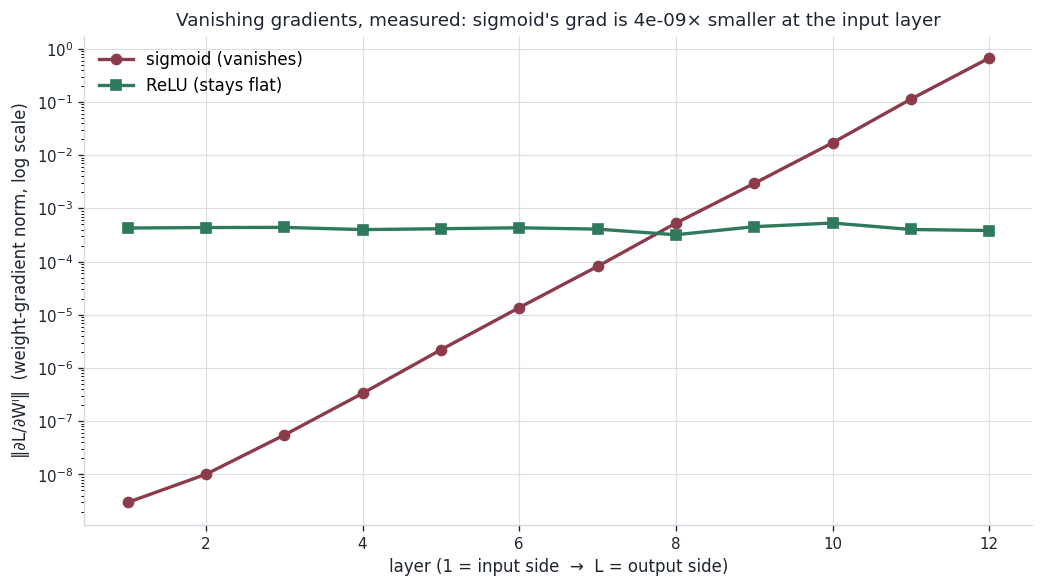
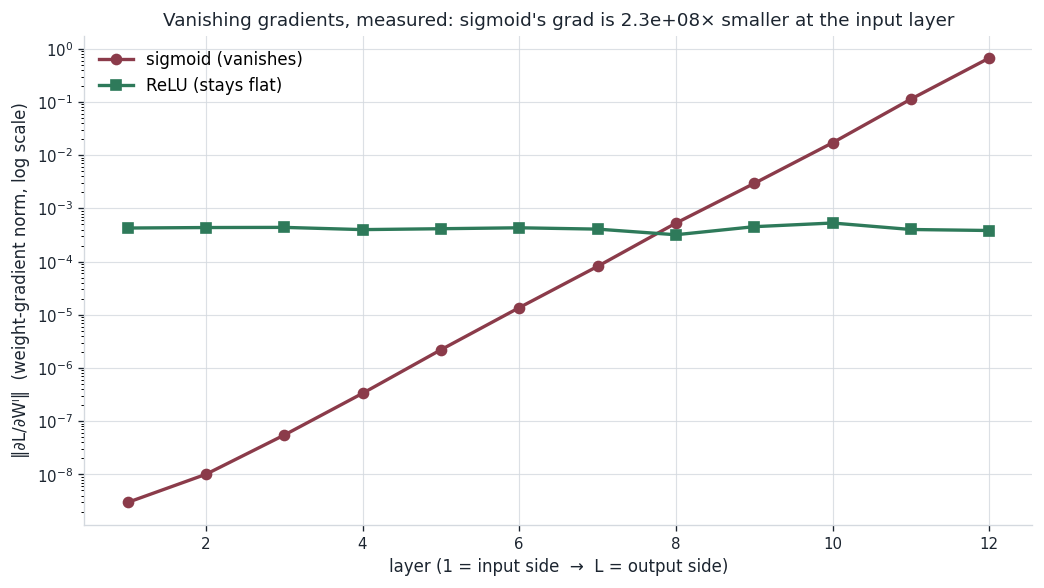
fix(05-dl-backprop): assert gradient-check/torch proofs + correct delta-recurrence caption + ReLU weight-grad reconciliation
Address review borderline items on the backpropagation chapter.

- Assert the two headline from-scratch proofs so a broken backward pass fails
  loudly instead of printing a bad number and exiting 0: main() now raises on
  gradient-check max rel error >= 1e-3 and on torch cross-check not all-close;
  the notebook adds the matching asserts in the gradient-check and torch cells.
- Correct the delta-recurrence caption: the spread is not "four orders" — it is
  ~2 orders for tanh (1.7e-1 to 1.7e-3) and ~3.5 orders for ReLU (to 6e-5).
- Add an explicit reconciliation of why ReLU's error delta shrinks toward the
  input yet its weight gradient stays flat: the weight grad is (a_prev)^T delta,
  and the forward activation grows toward the input at the rate delta shrinks
  (verified: ||a_prev|| 0.012 -> 39.7), so the product is flat; sigmoid's extra
  sigma'<=0.25 factor breaks the balance and the weight grad vanishes.
- Fix the vanishing figure title (printed the ratio in the wrong direction) and
  harmonize small drifts: 2.3e8 (was ~2e8) and median rel err 1.65e-10 across
  figure + prose.
- Add a "your turn" prompt (predict delta1 under sigmoid, check in the notebook).

Notebook regenerated and executed headless (0 errors, asserts pass); ruff clean
on module, generators, and notebook.

Changed region(s): [[0.1533, 0.0, 0.9195, 0.0612]]

diff --git a/05. Deep_Learning/02-Backpropagation-and-Computational-Graphs/code/backpropagation.py b/05. Deep_Learning/02-Backpropagation-and-Computational-Graphs/code/backpropagation.py
@@ -553,7 +553,10 @@ def main() -> None:
     xb, yb = x_tr[:16], np.eye(10)[y_tr[:16]]
     gc = gradient_check(mlp, xb, yb, eps=1e-5)
     print(f"  parameters checked : {gc.n_params}")
-    print(f"  median relative error : {gc.median_rel_error:.2e}   max : {gc.max_rel_error:.2e}  (<< 1e-3 => correct)\n")
+    print(f"  median relative error : {gc.median_rel_error:.2e}   max : {gc.max_rel_error:.2e}  (<< 1e-3 => correct)")
+    if not (gc.max_rel_error < 1e-3):  # hard gate: a broken backward pass must FAIL, not print a bad number and exit 0
+        raise AssertionError(f"gradient check FAILED: max relative error {gc.max_rel_error:.2e} >= 1e-3")
+    print()
 
     print("=== Epsilon U-curve on f(w) = 1/2 (tanh 3w - 0.5)^2 at w=0.7 ===")
     analytic, pts = epsilon_sweep()
@@ -565,7 +568,10 @@ def main() -> None:
 
     print("=== Torch cross-check — from-scratch MLP gradients vs loss.backward() ===")
     tm = torch_cross_check(mlp, xb, y_tr[:16])
-    print(f"  max abs diff = {tm.max_abs_diff:.2e}   allclose(atol=1e-10) = {tm.all_close}\n")
+    print(f"  max abs diff = {tm.max_abs_diff:.2e}   allclose(atol=1e-10) = {tm.all_close}")
+    if not tm.all_close:  # hard gate: from-scratch gradients MUST match the reference autodiff engine
+        raise AssertionError(f"torch cross-check FAILED: max abs diff {tm.max_abs_diff:.2e} exceeds atol=1e-10")
+    print()
 
     print("=== Train the from-scratch net on scikit-learn digits (SGD driven by backprop) ===")
     tr = train_digits()

diff --git a/05. Deep_Learning/tools/make_figures_02.py b/05. Deep_Learning/tools/make_figures_02.py
@@ -248,8 +248,8 @@ def fig_delta_and_vanishing() -> None:
     ax.semilogy(layers, prof_relu.grad_norms, "s-", color=GREEN, lw=2, label="ReLU (stays flat)")
     ax.set_xlabel("layer (1 = input side  →  L = output side)")
     ax.set_ylabel("‖∂L/∂Wˡ‖  (weight-gradient norm, log scale)")
-    r = prof_sig.grad_norms[0] / prof_sig.grad_norms[-1]
-    ax.set_title(f"Vanishing gradients, measured: sigmoid's grad is {r:.0e}× smaller at the input layer", fontsize=11)
+    r = prof_sig.grad_norms[-1] / prof_sig.grad_norms[0]  # output/input: how many times smaller at the input
+    ax.set_title(f"Vanishing gradients, measured: sigmoid's grad is {r:.1e}× smaller at the input layer", fontsize=11)
     ax.legend(frameon=False, fontsize=10)
     fig.tight_layout()
     _save(fig, f"{IMG_PREFIX}vanishing.png")
@@ -268,7 +268,7 @@ def fig_gradcheck() -> None:
     ax.set_xlabel("numerical gradient (centred finite difference)")
     ax.set_ylabel("analytic gradient (backprop)")
     ax.set_title(f"Gradient check: {gc.n_params} params, all on y = x\n"
-                 f"median rel err {gc.median_rel_error:.1e}, max {gc.max_rel_error:.1e}", fontsize=11)
+                 f"median rel err {gc.median_rel_error:.2e}, max {gc.max_rel_error:.1e}", fontsize=11)
     ax.legend(frameon=False, fontsize=10, loc="upper left")
     ax.set_aspect("equal")
     fig.tight_layout()

diff --git a/05. Deep_Learning/tools/build_notebook_02.py b/05. Deep_Learning/tools/build_notebook_02.py
@@ -262,7 +262,10 @@ add_code(
     "gc = gradient_check(check_net, x_tr[:16], np.eye(10)[y_tr[:16]], eps=1e-5)\n"
     "print(f'parameters checked    : {gc.n_params}')\n"
     "print(f'median relative error : {gc.median_rel_error:.2e}')\n"
-    "print(f'max    relative error : {gc.max_rel_error:.2e}   (<< 1e-3 => backward pass is correct)')"
+    "print(f'max    relative error : {gc.max_rel_error:.2e}   (<< 1e-3 => backward pass is correct)')\n"
+    "# hard gate: a broken backward pass must FAIL here, not just print a bad number\n"
+    "assert gc.max_rel_error < 1e-3, f'gradient check failed: max rel error {gc.max_rel_error:.2e}'\n"
+    "print('OK: gradient check confirms the from-scratch backward pass')"
 )
 
 # ---- Step 9: epsilon U-curve ----
@@ -294,7 +297,10 @@ add_md(
 add_code(
     "tm = torch_cross_check(check_net, x_tr[:16], y_tr[:16])\n"
     "print(f'max |from-scratch - autograd| = {tm.max_abs_diff:.2e}')\n"
-    "print(f'allclose(atol=1e-10)          = {tm.all_close}')"
+    "print(f'allclose(atol=1e-10)          = {tm.all_close}')\n"
+    "# hard gate: the from-scratch gradients must match the reference autodiff engine\n"
+    "assert tm.all_close, f'torch cross-check failed: max abs diff {tm.max_abs_diff:.2e}'\n"
+    "print('OK: from-scratch gradients match PyTorch autograd')"
 )
 
 # ---- Step 11: train on digits ----

diff --git a/05. Deep_Learning/02-Backpropagation-and-Computational-Graphs/02-Backpropagation-and-Computational-Graphs.md b/05. Deep_Learning/02-Backpropagation-and-Computational-Graphs/02-Backpropagation-and-Computational-Graphs.md
@@ -372,6 +372,8 @@ Every one of those numbers is a single application of "upstream × local," and e
 
 > **Tip:** the convention $z = xW + b$ (row vectors) makes "pull back" read as $W\delta$ and the weight grad as $x^\top\delta$; the column convention $z = Wx + b$ makes them $W^\top\delta$ and $\delta x^\top$. They are the same computation — just transposed. In an interview, **state your convention first**, then the shapes police themselves.
 
+> **Your turn:** in this net the only place the hidden activation enters the backward pass is the local factor $\sigma'(z^1)$ in $\delta^1 = (W^2\delta^2)\odot\sigma'(z^1)$. Predict what $\delta^1$ becomes if the hidden layer were **sigmoid** instead of tanh — i.e. replace $1-(a^1)^2$ with $a^1(1-a^1)$ (recompute $a^1=\sigma(z^1)$ first, since $z^1$ is unchanged) — then check your answer by swapping `activation="tanh"` for `"sigmoid"` in the notebook's `MLP` and re-running. Which entries of $\delta^1$ shrink, and why does that hint at vanishing gradients?
+
 ---
 
 ## Forward mode vs reverse mode
@@ -445,9 +447,11 @@ $$\delta^1 \;\approx\; \Big(\prod_{l=2}^{L}(W^l)^\top\Big)\Big(\prod_{l=1}^{L}\t
 
 Products of many numbers are unstable. If the factors are consistently **less than 1** in magnitude (sigmoid's $\sigma'$ peaks at $0.25$, tanh's at $1$ but typically smaller, and weight matrices with small singular values shrink too), the gradient **shrinks geometrically** toward the early layers — they receive almost nothing and barely learn: **vanishing gradients**. If the factors are consistently **greater than 1**, the product **explodes** to NaN: **exploding gradients**. The two plots below show both effects directly — the $\delta$ magnitude pulled back layer by layer, and the resulting weight-gradient norm per layer.
 
-![Magnitude of the per-layer error delta pulled back through a 12-layer net (small-scale weight init), measured for tanh and ReLU. Both shrink by roughly four orders of magnitude from the output layer (right) toward the input layer (left) — the backward product drifting below one — with tanh's error staying larger than ReLU's, because tanh's derivative is near 1 for small pre-activations while ReLU zeros out roughly half the units. This is the delta recurrence in action: each backward step multiplies by W-transpose and by sigma-prime, so the magnitude compounds.](../images/dl02_delta_recurrence.png)
+![Magnitude of the per-layer error delta pulled back through a 12-layer net (small-scale weight init), measured for tanh and ReLU. Both shrink toward the input layer (left) as the backward product drifts below one — tanh by about 2 orders of magnitude (1.7e-1 to 1.7e-3), ReLU by about 3.5 orders (1.7e-1 to 6e-5) — with tanh's error staying larger, because tanh's derivative is near 1 for small pre-activations while ReLU zeros out roughly half the units each layer. This is the delta recurrence in action: each backward step multiplies by W-transpose and by sigma-prime, so the magnitude compounds.](../images/dl02_delta_recurrence.png)
 
-![Weight-gradient norm per layer in a 12-layer net with identical small-scale initialization for both activations: with Sigmoid the gradient vanishes exponentially toward the early (input-side) layers — measured here as roughly 2e8 times smaller at layer 1 than at the output layer — while with ReLU it stays roughly constant across depth.](../images/dl02_vanishing.png)
+![Weight-gradient norm per layer in a 12-layer net with identical small-scale initialization for both activations: with Sigmoid the gradient vanishes exponentially toward the early (input-side) layers — measured here as roughly 2.3e8 (2.3×10⁸) times smaller at layer 1 than at the output layer — while with ReLU it stays roughly constant across depth.](../images/dl02_vanishing.png)
+
+**Reconciling the two plots (a subtle, important point).** The first plot shows ReLU's error $\delta$ *shrinking* toward the input, yet the second shows ReLU's *weight-gradient* staying flat — how can both be true? Because the weight gradient is not $\delta$ itself but the **product** $\partial L/\partial W^l = (a^{l-1})^\top\delta^l$. With this small-scale init the forward activation $a^{l-1}$ *grows* toward the input side at almost exactly the rate $\delta^l$ shrinks, so their product — the weight gradient — stays roughly constant across depth for ReLU. Sigmoid breaks that balance: its extra $\sigma'\le 0.25$ factor at every layer shrinks $\delta$ *faster* than the activation grows, so the product collapses and the weight gradient vanishes. The thing that actually vanishes is the weight gradient (the second plot) — the quantity the optimizer uses — and ReLU keeps it alive precisely by keeping that $\delta \times a$ product balanced.
 
 This single phenomenon — the backward product drifting away from 1 — motivates a huge fraction of deep-learning design: **ReLU**-like activations (local gradient exactly 1 in the active region, so they don't shrink the product), **residual connections** (an additive gradient shortcut — the add gate hands $\delta$ straight back, so the product has a "$+\,1$" path that never vanishes), **normalization** (batch/layer norm, which keeps $z$ in a healthy range so $\sigma'$ stays alive and conditions the weight matrices), careful **initialization** (He/Xavier, which set the weight scale so the product starts near 1), and **gradient clipping** for the exploding side.
 
@@ -485,7 +489,7 @@ $$\text{rel err} = \frac{|g_a - g_n|}{\max(|g_a| + |g_n|,\ \varepsilon)}.$$
 
 A relative error below $\sim 10^{-7}$ is a pass; $10^{-4}$ usually means a bug (or a kink, like ReLU at 0). The scatter below confirms a correct backward pass for every parameter of a small MLP; the U-curve shows why the choice of $\epsilon$ matters.
 
-![Analytic backprop gradients vs numerical finite-difference gradients for every one of the 1210 parameters of a small MLP: all points lie exactly on the y = x line (median relative error 1.7e-10, max 7.7e-8 across all parameters), confirming the backward pass is correct.](../images/dl02_gradcheck.png)
+![Analytic backprop gradients vs numerical finite-difference gradients for every one of the 1210 parameters of a small MLP: all points lie exactly on the y = x line (median relative error 1.65e-10, max 7.7e-8 across all parameters), confirming the backward pass is correct.](../images/dl02_gradcheck.png)
 
 **Worked example 5 — the ε U-curve.** Take a scalar function $f(w) = \tfrac12(\tanh 3w - 0.5)^2$ at $w = 0.7$, whose analytic derivative is $(\tanh 3w - 0.5)(1 - \tanh^2 3w)\cdot 3 = 0.08217$. Sweep $\epsilon$ and measure the relative error of the centered difference:
 
